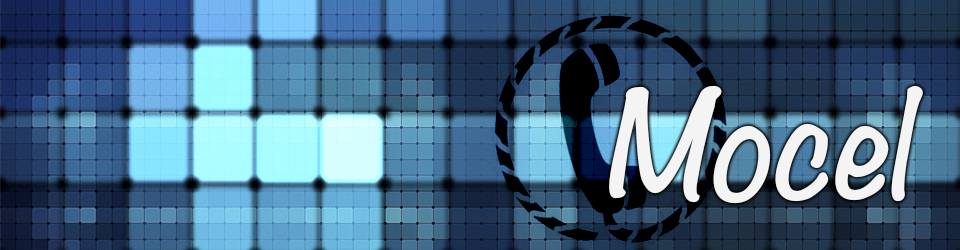
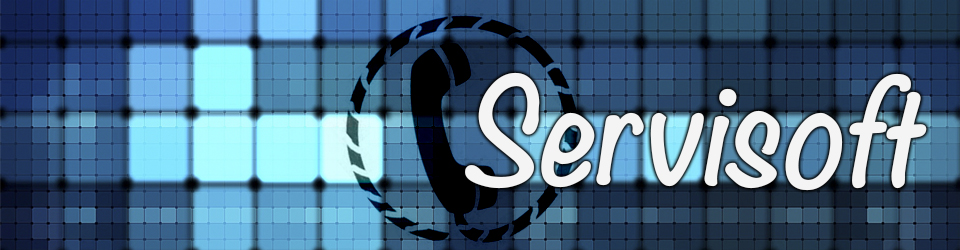
Mas cambios en la Interfaz

Changed region(s): [[0.3438, 0.056, 0.9688, 0.98], [0.3438, 0.7, 0.4062, 0.868]]

diff --git a/Tarea5/Mocel/Mocel/templates/facturaPstpago.html b/Tarea5/Mocel/Mocel/templates/facturaPstpago.html
@@ -8,8 +8,9 @@
         <div class="grid_3">
             <div class="banner"></div>
             {% for factura in listaFacturas %}
+            <div class="blue_Bar"></div>
             {% if factura.postpago %} <h1>FACTURA POSTPAGO </h1>{% else %} <h1>FACTURA PREPAGO </h1>{% endif %}
-            <h2> DATOS DEL CLIENTE </h2>
+            <h3> DATOS DEL CLIENTE </h3>
             <table>
                 <tr>
                     <th> Nombre: </th>
@@ -24,7 +25,7 @@
                     <th> {{factura.cliente.direccion}}</th>
                 </tr>
             </table>
-            <h2> DATOS DEL PRODUCTO </h2>
+            <h3> DATOS DEL PRODUCTO </h3>
             <table>
                 <tr>
                     <th> Modelo: </th>
@@ -39,7 +40,7 @@
                     <th> Servicio </th>
                     <th> Total Consumido </th>
                     <th> Limite para gastar </th>
-                    <th> Montoa a cobrar por exceso </th>
+                    <th> Monto a cobrar por exceso </th>
                 </tr>
                 
                 {% for key, listaValues in factura.listaCobrar.items %}
@@ -58,8 +59,9 @@
             </table>
             <h2>El total a cobrar por el plan es {{ factura.totalPlan }}.</h2>
             <h2>El total a cobrar por los paquetes es {{ factura.totalPaquetes }}.</h2>
-            <h2>El total a cobrar es {{ factura.total }}.</h2>
+            <h2>El total a cobrar es {{ factura.total }}.</h2> <br/><br/>
             {% endfor %}
+
         </div>
     </div>
 </body></html>

diff --git a/Tarea5/Mocel/Mocel/templates/infoPostpago.html b/Tarea5/Mocel/Mocel/templates/infoPostpago.html
@@ -4,23 +4,23 @@
 {% block title %} MOCEL - Cliente Postpago {% endblock%}
 
 {% block content %}
-	<h4> Informacion del producto: </h4>
+	<h1> Informacion del producto: </h1>
 
-	<p> &nbsp;&nbsp;&nbsp;&nbsp;&nbsp;&nbsp;&nbsp;Serial: {{producto.numserie}}.<br>
+	<h3><p>&nbsp;&nbsp;&nbsp;&nbsp;&nbsp;&nbsp;&nbsp;Serial: {{producto.numserie}}.<br>
 	    &nbsp;&nbsp;&nbsp;&nbsp;&nbsp;&nbsp;&nbsp;Nombre: {{producto.nombreprod}}.
-	</p>
+	</p></h3>
 
-	<p> El producto posee un plan postpago. </p>
+	<h3><p> El producto posee un plan postpago. </p></h3>
 
 
-	<h4> Detalles de ultima factura: </h4>
+	<h2><p>Detalles de ultima factura: </p></h2>
 
-	<p> El total a cobrar por: <br>
+	<h3> El total a cobrar por: <br>
 	    &nbsp;&nbsp;&nbsp;&nbsp;&nbsp;&nbsp;&nbsp;- Plan: {{ totalPlan }}. <br>
 	    &nbsp;&nbsp;&nbsp;&nbsp;&nbsp;&nbsp;&nbsp;- Paquetes: {{ totalPaquetes }}.<br>
-	    TOTAL: {{ total }}.</p>
+	    TOTAL: {{ total }}.</h3> <br>
 
-	<a href="/cliente/{{ user.username }}/"> Regresar </a>
+	<h2> <a href="/cliente/{{ user.username }}/"> Regresar </a></h2>
 
 {% endblock%}
 

diff --git a/Tarea5/Mocel/Mocel/templates/infoPrepago.html b/Tarea5/Mocel/Mocel/templates/infoPrepago.html
@@ -4,16 +4,17 @@
 {% block title %} MOCEL - Cliente Prepago {% endblock%}
 
 {% block content %}
-	<h4> Informacion del producto: </h4>
-	<p>&nbsp;&nbsp;&nbsp;&nbsp;&nbsp;&nbsp;&nbsp;Serial: {{ producto.numserie }}  <br>
+	<h1> Informacion del producto: </h1>
+
+	<h3><p>&nbsp;&nbsp;&nbsp;&nbsp;&nbsp;&nbsp;&nbsp;Serial: {{ producto.numserie }}  <br>
 	   &nbsp;&nbsp;&nbsp;&nbsp;&nbsp;&nbsp;&nbsp;Nombre: {{ producto.nombreprod }}
-	</p>
+	</p></h3>
 
-	<p> El producto posee un plan prepago. </p>
+	<h3> <p> El producto posee un plan prepago. </p> </h3> 
 
-	<p> Posee un saldo de: {{saldo}} Bs.</p>
+	<h2> <p> Posee un saldo de: {{saldo}} Bs.</p> <h2> <br> 
 
-	<a href="/cliente/{{ user.username }}/"> Regresar </a>
+	<h2> <a href="/cliente/{{ user.username }}/"> Regresar </a> </h2>
 
 {% endblock%}
 

diff --git a/Tarea5/Mocel/Mocel/templates/listarProducto.html b/Tarea5/Mocel/Mocel/templates/listarProducto.html
@@ -4,20 +4,20 @@
 {% block title %} MOCEL - Lista de productos {% endblock%}
 
 {% block content %}
-	<h4> Lista de Productos: </h4>
+	<h1> Lista de Productos: </h1>
 
 	{{ informacion }}
 
 	<ol>
 	{% for producto in lista_productos %}
-	    <li> Nombre: {{ producto.nombreprod }} <br>
-		 Serie: {{producto.numserie}} <br>
-	    	 <a href="/producto/{{ producto.numserie }}/"> Consultar </a> <br> <br>
-	    </li>
+	    <p><h3><li> Nombre: {{ producto.nombreprod }} <br>
+		 Serie: {{producto.numserie}} <br></h3>
+	    <h2><a href="/producto/{{ producto.numserie }}/">Consultar</a> <br> <br></h2>
+	    </li></p>
 	{% endfor %}
 	</ol>
 
-	<a href="{% url 'vista_principal' %}"> Regresar </a>
+	<h2> <a href="{% url 'vista_principal' %}"> Regresar </a></h2>
 
 {% endblock%}
 

diff --git a/Tarea5/Mocel/Mocel/templates/index.html b/Tarea5/Mocel/Mocel/templates/index.html
@@ -5,7 +5,7 @@
 <html>
 	<!--HEAD-->
 	<head>
-		<title> {% block title %} MOCEL {% endblock%}</title>
+		<title> {% block title %} SERVISOFT {% endblock%}</title>
 		<meta charset="utf-8">
         </div>
  
@@ -17,10 +17,10 @@
     <div class="container_3">
         <div class="grid_3">
             <div class="banner"></div>
-
+            <div class="blue_Bar"></div>
 		    <header>
 
-			    <h4>MOCEL</h4>
+			    <h4>SERVISOFT</h4>
 
 	            <section>
 		            {% block content %}	
